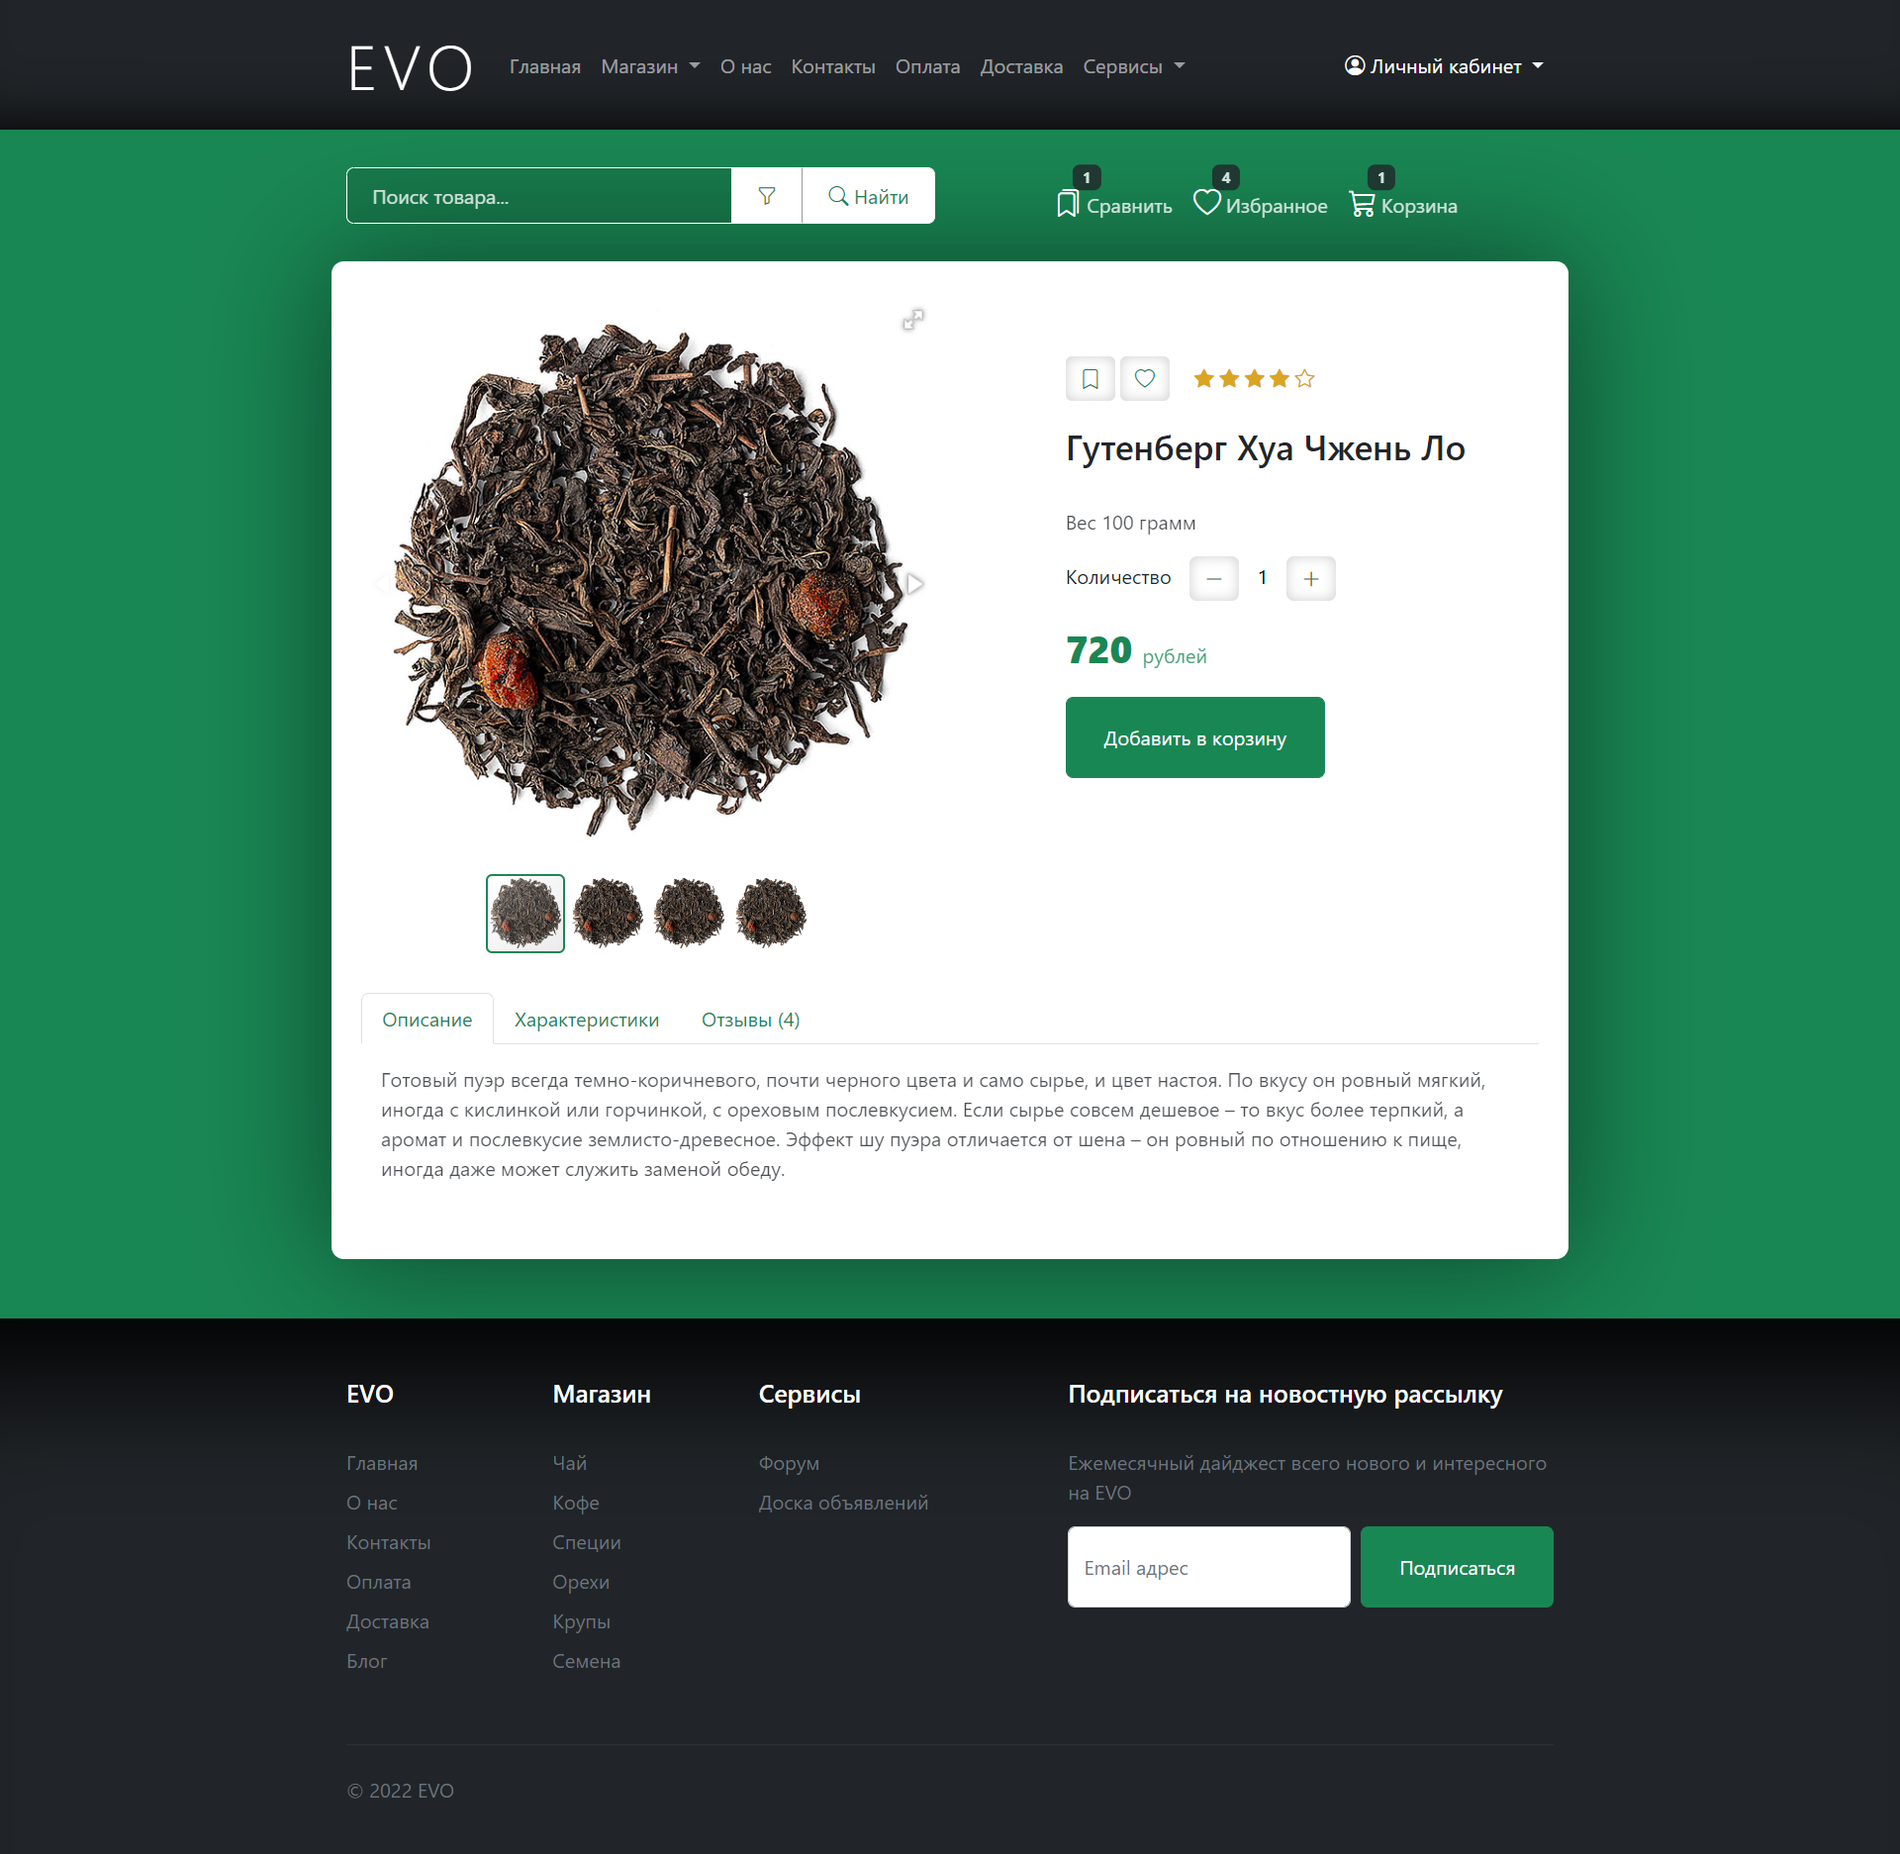
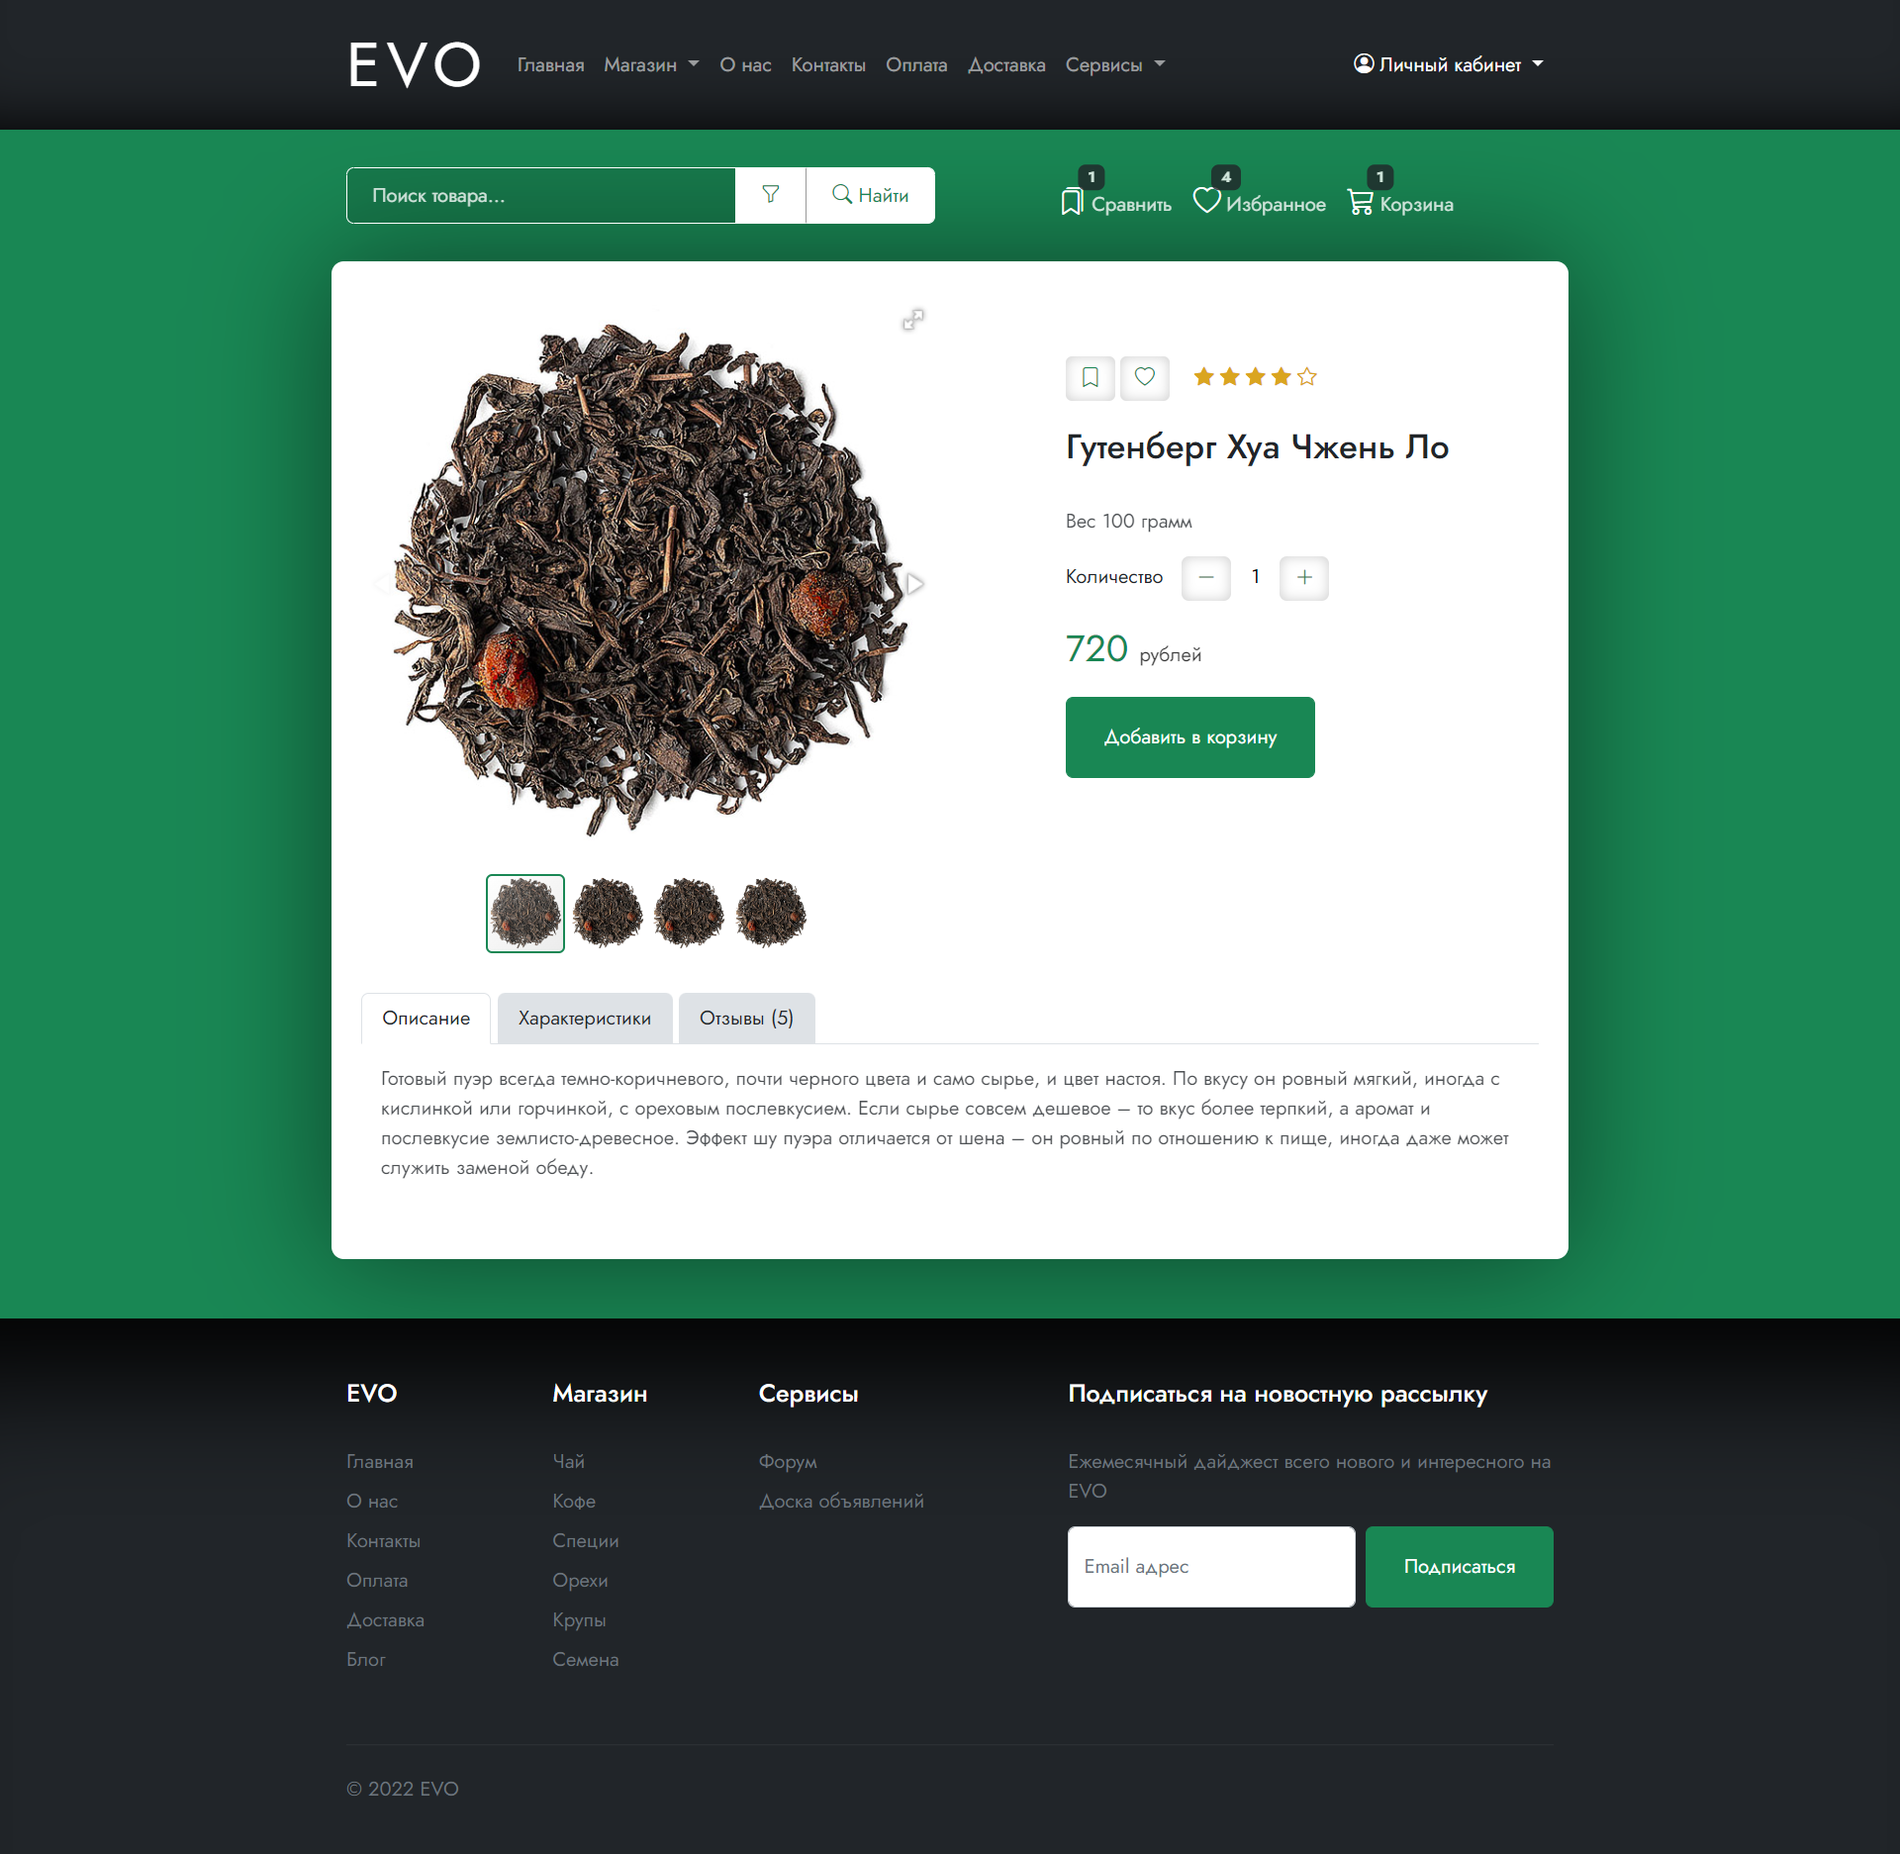
незначительные правки вёрстки

diff --git a/apps/templates/accounts/register.html b/apps/templates/accounts/register.html
@@ -3,19 +3,41 @@
 {% block content %}
     <section class="paddingTopBottom">
         <div class="container">
-            <div class="row">
+            <div class="row justify-content-center">
                 <div class="col-md-6">
-                    <h1>Регистрация</h1>
+                    <h1 class="text-center">Регистрация</h1>
                     <form id="signupForm" action="" method="POST">
                         {% csrf_token %}
                         <div>{{ form.non_field_errors }}</div>
-                        {% for field in form %}
-                            <div class="form-floating mb-3">
-                                {{ field }}
-                                <label for="{{ field.id_for_label }}">{{ field.label }}</label>
-                            </div>
-                            <div>{{ field.errors }}</div>
-                        {% endfor %}
+
+                        <div class="form-floating mb-3">
+                            {{ form.username }}
+                            <label for="{{ form.username.id_for_label }}">{{ form.username.label }}</label>
+                        </div>
+                        <div>{{ form.username.errors }}</div>
+                        <div>Логин должен содержать только буквы латинского алфавита и цифры</div>
+                        <br>
+
+                        <div class="form-floating mb-3">
+                            {{ form.email }}
+                            <label for="{{ form.email.id_for_label }}">{{ form.email.label }}</label>
+                        </div>
+                        <div>{{ form.email.errors }}</div>
+
+                        <div class="form-floating mb-3">
+                            {{ form.password1 }}
+                            <label for="{{ form.password1.id_for_label }}">{{ form.password1.label }}</label>
+                        </div>
+                        <div>{{ form.password1.errors }}</div>
+                        <div>Пароль должен быть от 8 символов</div>
+                        <br>
+
+                        <div class="form-floating mb-3">
+                            {{ form.password2 }}
+                            <label for="{{ form.password2.id_for_label }}">{{ form.password2.label }}</label>
+                        </div>
+                        <div>{{ form.password2.errors }}</div>
+
                         <button type="submit" name="signupSubmit" class="btn btn-success btnS">Отправить</button>
                     </form>
                     <br>
@@ -26,16 +48,16 @@
     </section>
     <script>
         $(document).ready(function () {
-            $('#id_username').keyup(function () { // отслеживаем событие отправки формы
+            $('#id_username').change(function () { // отслеживаем событие отправки формы
                 $.ajax({ // создаем AJAX-вызов
-                    data: $(this).serialize(), // получаяем данные формы
+                    data: $(this).serialize(), // получаем данные формы
                     url: "{% url 'validate_username' %}",
                     success: function (response) { // если успешно, то
                         if (response.username_taken) {
                             $('#id_username').removeClass('is-valid').addClass('is-invalid');
                             $('#id_username').after('<div class="errorAjax" id="usernameError">Такой логин уже существует!</div>')
                         } else {
-                            $('#id_username').removeClass('is-invalid').addClass('is-valid');
+                            $('#id_username').removeClass('is-invalid');
                             $('#usernameError').remove();
                         }
                     },
@@ -45,7 +67,7 @@
                 });
                 return false;
             });
-            $('#id_email').keyup(function () {
+            $('#id_email').change(function () {
                 $.ajax({
                     data: $(this).serialize(),
                     url: "{% url 'validate_email' %}",
@@ -54,7 +76,7 @@
                             $('#id_email').removeClass('is-valid').addClass('is-invalid');
                             $('#id_email').after('<div class="errorAjax" id="emailError">Такой e-mail уже зарегистрирован!</div>')
                         } else {
-                            $('#id_email').removeClass('is-invalid').addClass('is-valid');
+                            $('#id_email').removeClass('is-invalid');
                             $('#emailError').remove();
                         }
                     },

diff --git a/apps/templates/core/contacts.html b/apps/templates/core/contacts.html
@@ -19,7 +19,8 @@
                     <h1>Контакты</h1>
                     <p><span class="text">Телефон:</span> 8 800 000 00 00</p>
                     <p><span class="text">Email:</span> mail@mail.ru</p>
-                    <p><span class="text">Адрес:</span> 232234, Москва, ул. Ленина д. 23</p>
+                    <p><span class="text">Адрес:</span> 127006, Тверская ул., 22</p>
+
                     {% if not messages %}
                         <div id="contact-form" class="contact-form">
                             <h2 class="pt-5">Написать нам сообщение</h2>
@@ -47,6 +48,14 @@
                     {% endif %}
                 </div>
             </div>
+            <div class="row">
+                <div class="col pt-5">
+                    <h2>Карта</h2>
+                    <iframe src="https://www.google.com/maps/embed?pb=!1m18!1m12!1m3!1d2244.452990888327!2d37.59734780323929!3d55.76800399999999!2m3!1f0!2f0!3f0!3m2!1i1024!2i768!4f13.1!3m3!1m2!1s0x46b54a3f34e974e1%3A0x29395fdb1333e583!2z0KLQstC10YDRgdC60LDRjyDRg9C7LiwgMjIsINCc0L7RgdC60LLQsCwgMTI3MDA2!5e0!3m2!1sru!2sru!4v1659200123194!5m2!1sru!2sru"
+                            width="100%" height="450" style="border:0;" allowfullscreen="" loading="lazy"
+                            referrerpolicy="no-referrer-when-downgrade"></iframe>
+                </div>
+            </div>
         </div>
     </section>
 
@@ -58,12 +67,15 @@
                     type: $(this).attr('method'), // GET или POST
                     url: "{% url 'contacts' %}",
                     success: function (response) { // если успешно, то
+                        $('.errorAjax').remove();
                         $('.message').after('<div class="alert alert-success" role="alert">Сообщение отправлено</div>');
                         $('#contact-form').addClass('visually-hidden');
                         $('html, body').animate({scrollTop: $("body").offset().top}, 0);
                     },
                     error: function (response) { // если ошибка, то
-                        alert(response.responseJSON.errors); // предупредим об ошибке
+                        $('.errorAjax').remove();
+                        $('.message').after('<div class="errorAjax" role="alert">Форма заполнена не верно</div>');
+                        $('html, body').animate({scrollTop: $("body").offset().top}, 0);
                     }
                 });
                 return false;

diff --git a/apps/static/css/style.css b/apps/static/css/style.css
@@ -1,4 +1,5 @@
 @import url("/apps/static/css/bootstrap-icons-1.9.1/bootstrap-icons.css");
+@import url('https://fonts.googleapis.com/css2?family=Jost:ital,wght@0,100;0,200;0,300;0,400;0,500;0,600;0,700;0,800;0,900;1,100;1,200;1,300;1,400;1,500;1,600;1,700;1,800;1,900&display=swap');
 
 :root {
     --color-accent: #198754;
@@ -51,6 +52,8 @@ select option:hover {
 
 body {
     background-color: var(--color-accent);
+    font-family: 'Jost', sans-serif;
+    transition: all ease .3s;
 }
 
 #main-container {
@@ -153,7 +156,6 @@ input[type="search"]::-webkit-search-results-decoration {
 #navbar .navbar-brand {
     letter-spacing: 5px;
     font-size: 50px;
-    font-weight: 100;
 }
 
 .dropdown-menu[data-bs-popper] {
@@ -362,7 +364,6 @@ input[type="search"]::-webkit-search-results-decoration {
 #prod .card-body-i a {
     text-decoration: none;
     color: black !important;
-    font-weight: 100;
     font-size: 33px;
     border: 0;
     padding: 20px 30px;
@@ -673,7 +674,7 @@ footer input {
     color: red;
     background: rgb(255 0 0 / 10%);
     border-radius: 5px;
-    padding: 10px;
+    padding: 1rem;
     list-style: none;
 }
 
@@ -681,8 +682,8 @@ footer input {
     color: red;
     background: rgb(255 0 0 / 10%);
     border-radius: 5px;
-    margin-top: 15px;
-    padding: 10px;
+    margin: 15px 0;
+    padding: 1rem;
     list-style: none;
 }
 

diff --git a/apps/templates/accounts/logout.html b/apps/templates/accounts/logout.html
@@ -3,10 +3,10 @@
 {% block content %}
     <section class="paddingTopBottom">
         <div class="container">
-            <div class="row">
+            <div class="row justify-content-center">
                 <div class="col-md-6">
-                    <h1>Вы вышли</h1>
-                    <p>Желаете войти? <a href="{% url 'login' %}">Войти</a></p>
+                    <h1 class="text-center">Вы вышли</h1>
+                    <p class="text-center">Желаете войти? <a href="{% url 'login' %}">Войти</a></p>
                 </div>
             </div>
         </div>

diff --git a/apps/templates/accounts/login.html b/apps/templates/accounts/login.html
@@ -12,9 +12,9 @@
                     {% endif %}
                 </div>
             </div>
-            <div class="row">
+            <div class="row justify-content-center">
                 <div class="col-md-6">
-                    <h1>Вход</h1>
+                    <h1 class="text-center">Вход</h1>
                     <form action="" method="POST">
                         {% csrf_token %}
                         <div>{{ form.non_field_errors }}</div>

diff --git a/apps/accounts/forms.py b/apps/accounts/forms.py
@@ -1,5 +1,7 @@
 from django.contrib.auth.forms import UserCreationForm, AuthenticationForm
 from django import forms
+from django.core.exceptions import ValidationError
+
 from .models import Profile
 
 
@@ -14,11 +16,22 @@ class UserRegisterForm(UserCreationForm, forms.ModelForm):
 
     username = forms.CharField(label='Логин пользователя',
                                widget=forms.TextInput(attrs={'class': 'form-control'}))
+    email = forms.EmailField(label='Адрес электронной почты',
+                             widget=forms.TextInput(attrs={'class': 'form-control'}))
 
     def __init__(self, *args, **kwargs):
         super().__init__(*args, **kwargs)
         self.fields['password1'].widget = forms.PasswordInput(attrs={'class': 'form-control'})
         self.fields['password2'].widget = forms.PasswordInput(attrs={'class': 'form-control'})
+
+    # def clean(self):
+    #     cleaned_data = super().clean()
+    #     username = cleaned_data.get("username")
+    #     email = cleaned_data.get("email")
+    #     if username == '':
+    #         raise forms.ValidationError("Введите логин")
+    #     if email == '':
+    #         raise forms.ValidationError("Введите свою почту")
 
 
 class UserLoginForm(AuthenticationForm, forms.ModelForm):

diff --git a/apps/accounts/views.py b/apps/accounts/views.py
@@ -33,18 +33,14 @@ class RegisterForm(SuccessMessageMixin, CreateView):
 def validate_username(request):
     """ Проверка доступности логина """
     username = request.GET.get('username', None)
-    response = {
-        'username_taken': Profile.objects.filter(username__iexact=username).exists(),
-    }
+    response = {'username_taken': Profile.objects.filter(username__iexact=username).exists()}
     return JsonResponse(response)
 
 
 def validate_email(request):
     """ Проверка доступности e-mail """
     email = request.GET.get('email', None)
-    response = {
-        'email_taken': Profile.objects.filter(email__iexact=email).exists(),
-    }
+    response = {'email_taken': Profile.objects.filter(email__iexact=email).exists()}
     return JsonResponse(response)
 
 
